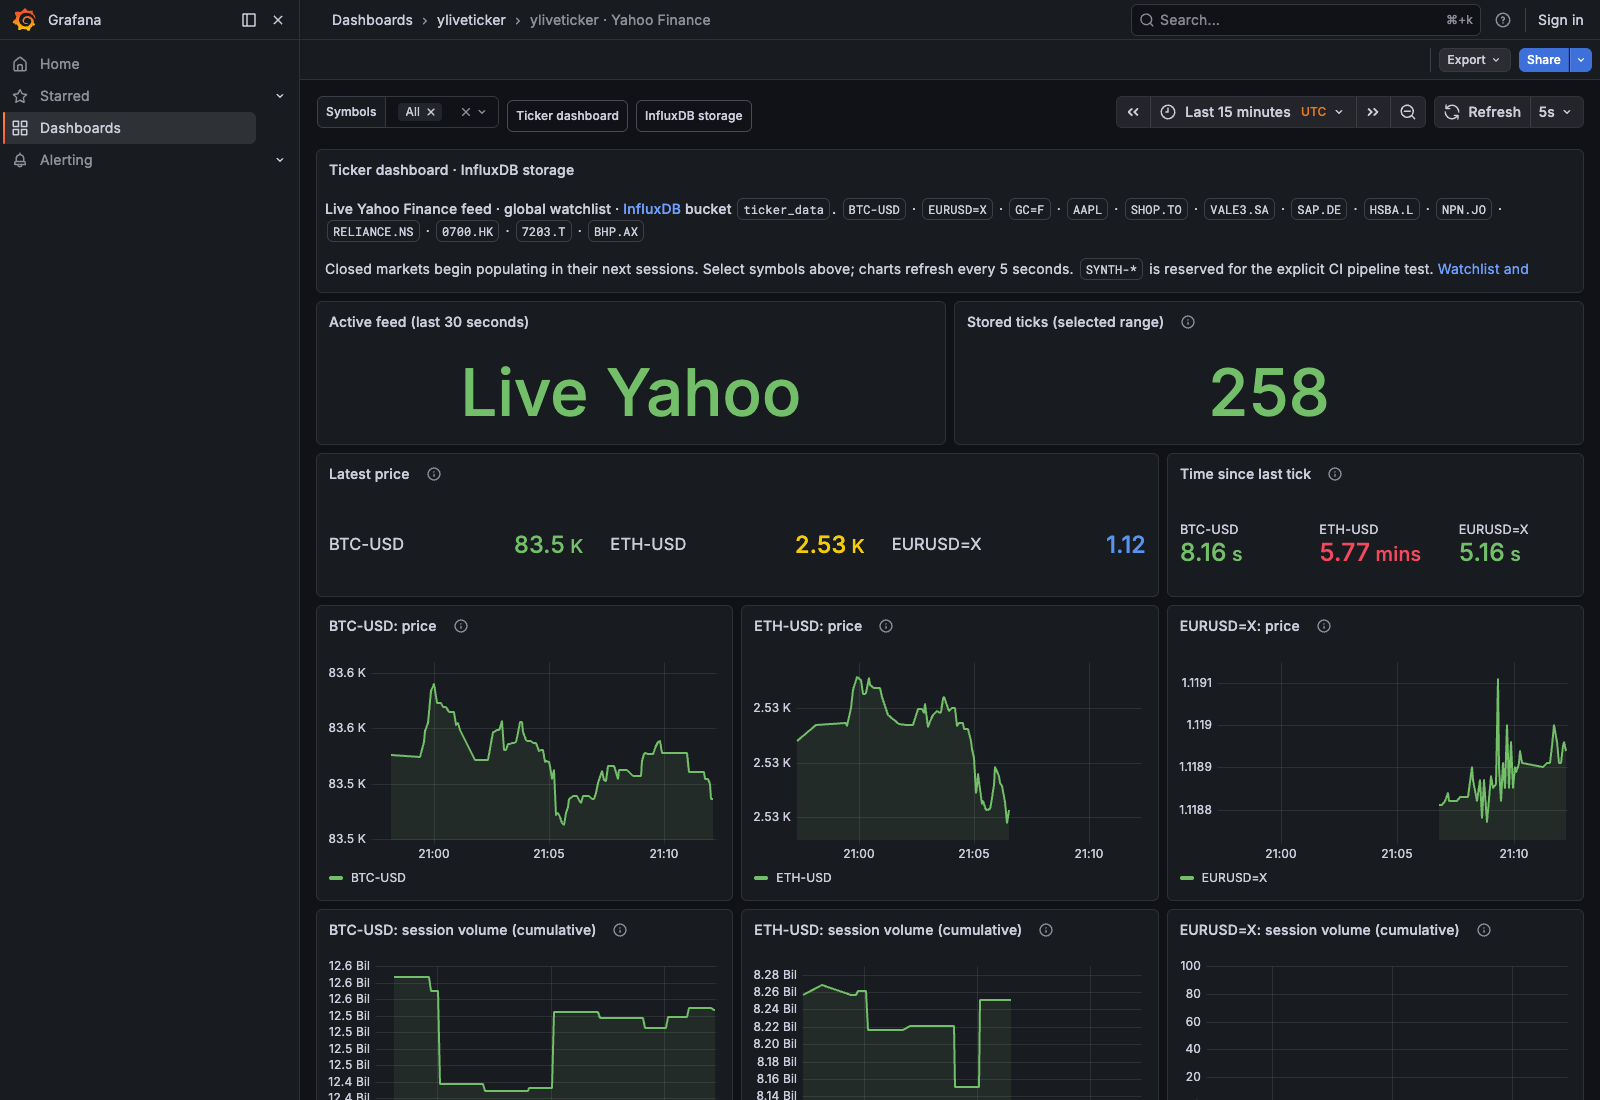
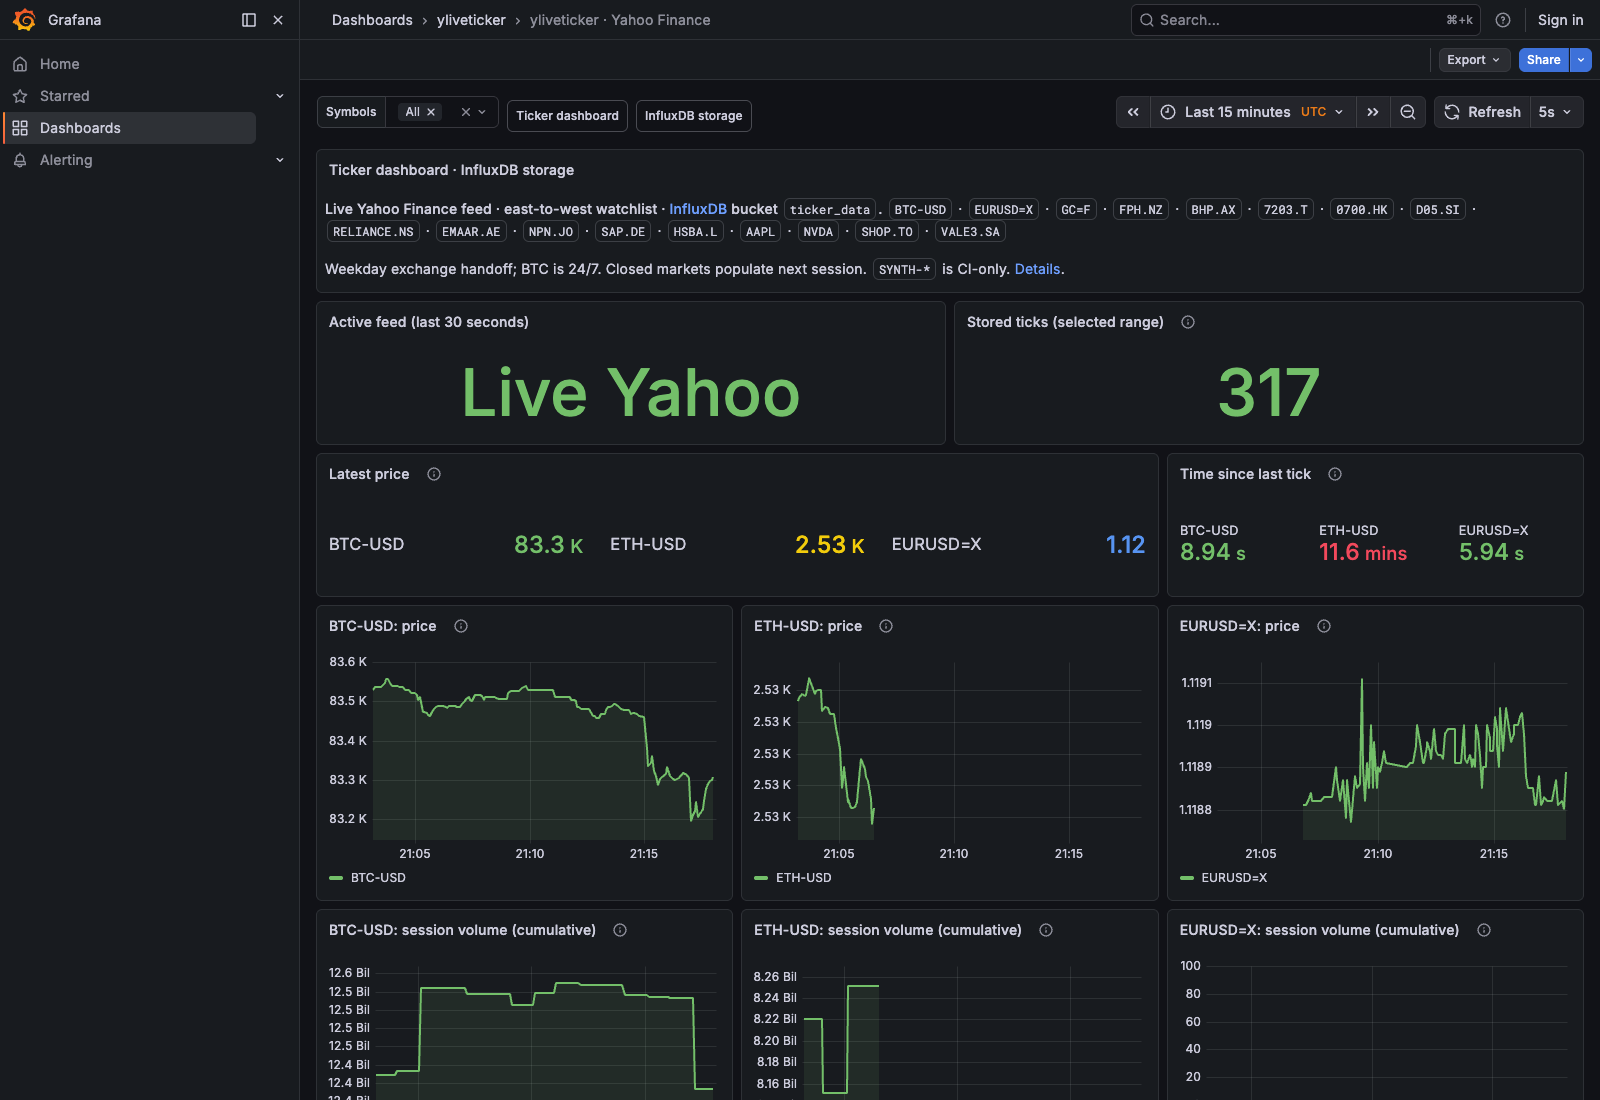
Extend the live watchlist across time zones

diff --git a/examples/tsdb_example.py b/examples/tsdb_example.py
@@ -19,16 +19,20 @@ DEFAULT_SYMBOLS = (
     "BTC-USD",    # Global crypto (keeps the quickstart active around the clock)
     "EURUSD=X",   # Global foreign exchange
     "GC=F",       # Gold futures
+    "FPH.NZ",     # New Zealand
+    "BHP.AX",     # Australia
+    "7203.T",     # Japan
+    "0700.HK",    # Hong Kong
+    "D05.SI",     # Singapore
+    "RELIANCE.NS",  # India
+    "EMAAR.AE",   # Dubai
+    "NPN.JO",     # South Africa
+    "SAP.DE",     # Germany (Xetra/Frankfurt)
+    "HSBA.L",     # United Kingdom
     "AAPL",       # United States
+    "NVDA",       # California issuer (trades on the US market schedule)
     "SHOP.TO",    # Canada
     "VALE3.SA",   # Brazil
-    "SAP.DE",     # Germany
-    "HSBA.L",     # United Kingdom
-    "NPN.JO",     # South Africa
-    "RELIANCE.NS",  # India
-    "0700.HK",    # Hong Kong
-    "7203.T",     # Japan
-    "BHP.AX",     # Australia
 )
 
 

diff --git a/README.md b/README.md
@@ -31,10 +31,11 @@ The collector writes to **InfluxDB 2, bucket `ticker_data`**; Grafana reads thos
 stored ticks through the provisioned InfluxDB datasource.
 
 **The default uses live Yahoo quotes** through the package's real WebSocket
-client. Its global watchlist covers `AAPL` (US), `SHOP.TO` (Canada), `VALE3.SA`
-(Brazil), `SAP.DE` (Germany), `HSBA.L` (UK), `NPN.JO` (South Africa),
-`RELIANCE.NS` (India), `0700.HK` (Hong Kong), `7203.T` (Japan), and `BHP.AX`
-(Australia), plus `BTC-USD`, `EURUSD=X`, and gold futures (`GC=F`). The dashboard
+client. Its east-to-west watchlist covers New Zealand (`FPH.NZ`), Australia
+(`BHP.AX`), Japan (`7203.T`), Hong Kong (`0700.HK`), Singapore (`D05.SI`), India
+(`RELIANCE.NS`), Dubai (`EMAAR.AE`), South Africa (`NPN.JO`), Frankfurt/Xetra
+(`SAP.DE`), London (`HSBA.L`), and the Americas (`AAPL`, `NVDA`, `SHOP.TO`,
+`VALE3.SA`), plus `BTC-USD`, `EURUSD=X`, and gold futures (`GC=F`). The dashboard
 shows the active feed, stored tick count, latest prices, tick freshness, separate
 charts and cumulative volume.
 The readiness script checks that a recent live tick actually reached InfluxDB
@@ -55,8 +56,9 @@ market hours. Put `TICKER_SYNTHETIC=1` in `docker/.env` only for pipeline testin
 
 ![Grafana dashboard showing global live prices, tick freshness and per-symbol charts](docs/images/grafana-dashboard.png)
 
-*The default quickstart connects to Yahoo. Closed exchanges will begin populating
-when their next trading sessions open.*
+*The default quickstart connects to Yahoo. The exchange sequence gives broad
+weekday coverage, while BTC supplies true 24/7 ticks. Closed exchanges begin
+populating when their next trading sessions open.*
 
 **[Quickstart settings, synthetic test feed and troubleshooting →](docker/README.md)**
 

diff --git a/docker/README.md b/docker/README.md
@@ -49,20 +49,26 @@ The default watchlist is geographically and asset-class diverse:
 | Market | Yahoo symbol | Instrument |
 | --- | --- | --- |
 | Global | `BTC-USD`, `EURUSD=X`, `GC=F` | Bitcoin, EUR/USD, gold futures |
-| United States | `AAPL` | Apple |
+| New Zealand | `FPH.NZ` | Fisher & Paykel Healthcare |
+| Australia | `BHP.AX` | BHP |
+| Japan | `7203.T` | Toyota |
+| Hong Kong | `0700.HK` | Tencent |
+| Singapore | `D05.SI` | DBS Group |
+| India | `RELIANCE.NS` | Reliance Industries |
+| Dubai | `EMAAR.AE` | Emaar Properties |
+| South Africa | `NPN.JO` | Naspers |
+| Germany (Xetra/Frankfurt) | `SAP.DE` | SAP |
+| United Kingdom | `HSBA.L` | HSBC |
+| United States | `AAPL`, `NVDA` | Apple; NVIDIA (California issuer) |
 | Canada | `SHOP.TO` | Shopify |
 | Brazil | `VALE3.SA` | Vale |
-| Germany | `SAP.DE` | SAP |
-| United Kingdom | `HSBA.L` | HSBC |
-| South Africa | `NPN.JO` | Naspers |
-| India | `RELIANCE.NS` | Reliance Industries |
-| Hong Kong | `0700.HK` | Tencent |
-| Japan | `7203.T` | Toyota |
-| Australia | `BHP.AX` | BHP |
 
-These are real Yahoo instruments, not bundled sample records. Only instruments
-whose markets are active will produce new ticks; `BTC-USD` keeps the readiness
-check useful around the clock.
+These are real Yahoo instruments, not bundled sample records. Ordered from
+Auckland westward, their regular sessions provide broad weekday coverage, but
+they are not a guaranteed continuous feed: holidays, closed markets and Yahoo
+availability still apply. A West Coast company still trades on the US market
+schedule. `BTC-USD` supplies true 24/7 ticks; FX and gold futures bridge most of
+the weekday gaps.
 
 On macOS/Linux, from the repository root:
 

diff --git a/CHANGELOG.md b/CHANGELOG.md
@@ -15,8 +15,8 @@
   opt-in clearly labeled synthetic mode, readiness checks and collector shutdown flushing.
 - Default the Docker quickstart to live Yahoo quotes; check recent mode-specific
   InfluxDB writes for collector health and make the ticker dashboard the home page.
-  Use a geographically diverse default watchlist spanning ten equity markets,
-  crypto, FX and commodities; reserve `SYNTH-*` names for deterministic CI data.
+  Use an east-to-west default watchlist spanning thirteen equity markets, crypto,
+  FX and commodities; reserve `SYNTH-*` names for deterministic CI data.
   Migrate Grafana databases with the legacy provisioned dashboard and datasource
   UIDs without deleting ticks. Pin InfluxDB 2.9.1 so volumes created by the old
   `influxdb:latest` remain schema-compatible.
